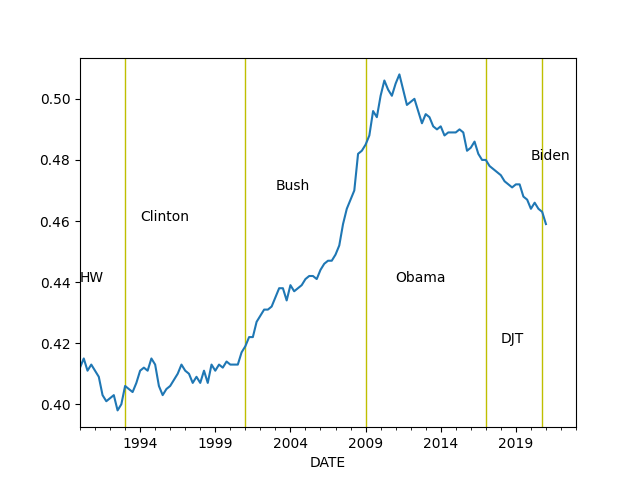
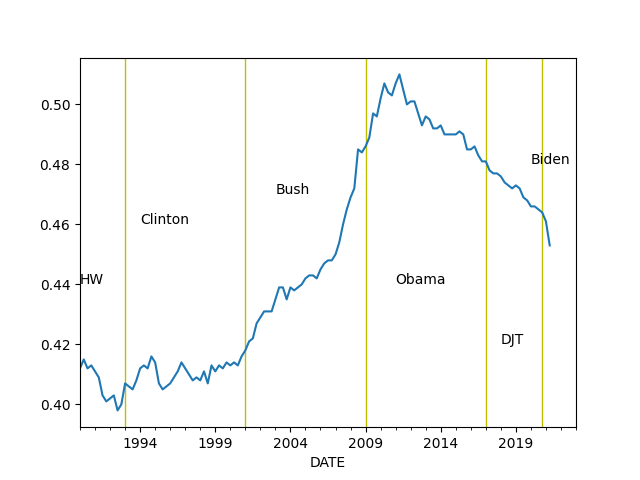
-

diff --git a/en/2019/05/stats.md b/en/2019/05/stats.md
@@ -886,10 +886,10 @@ plt.savefig('gini.png')
 
 ```text
 DATE
-2020-04-01    0.466
-2020-07-01    0.464
-2020-10-01    0.463
-2021-01-01    0.459
+2020-07-01    0.465
+2020-10-01    0.464
+2021-01-01    0.461
+2021-04-01    0.453
 dtype: float64
 ```
 
